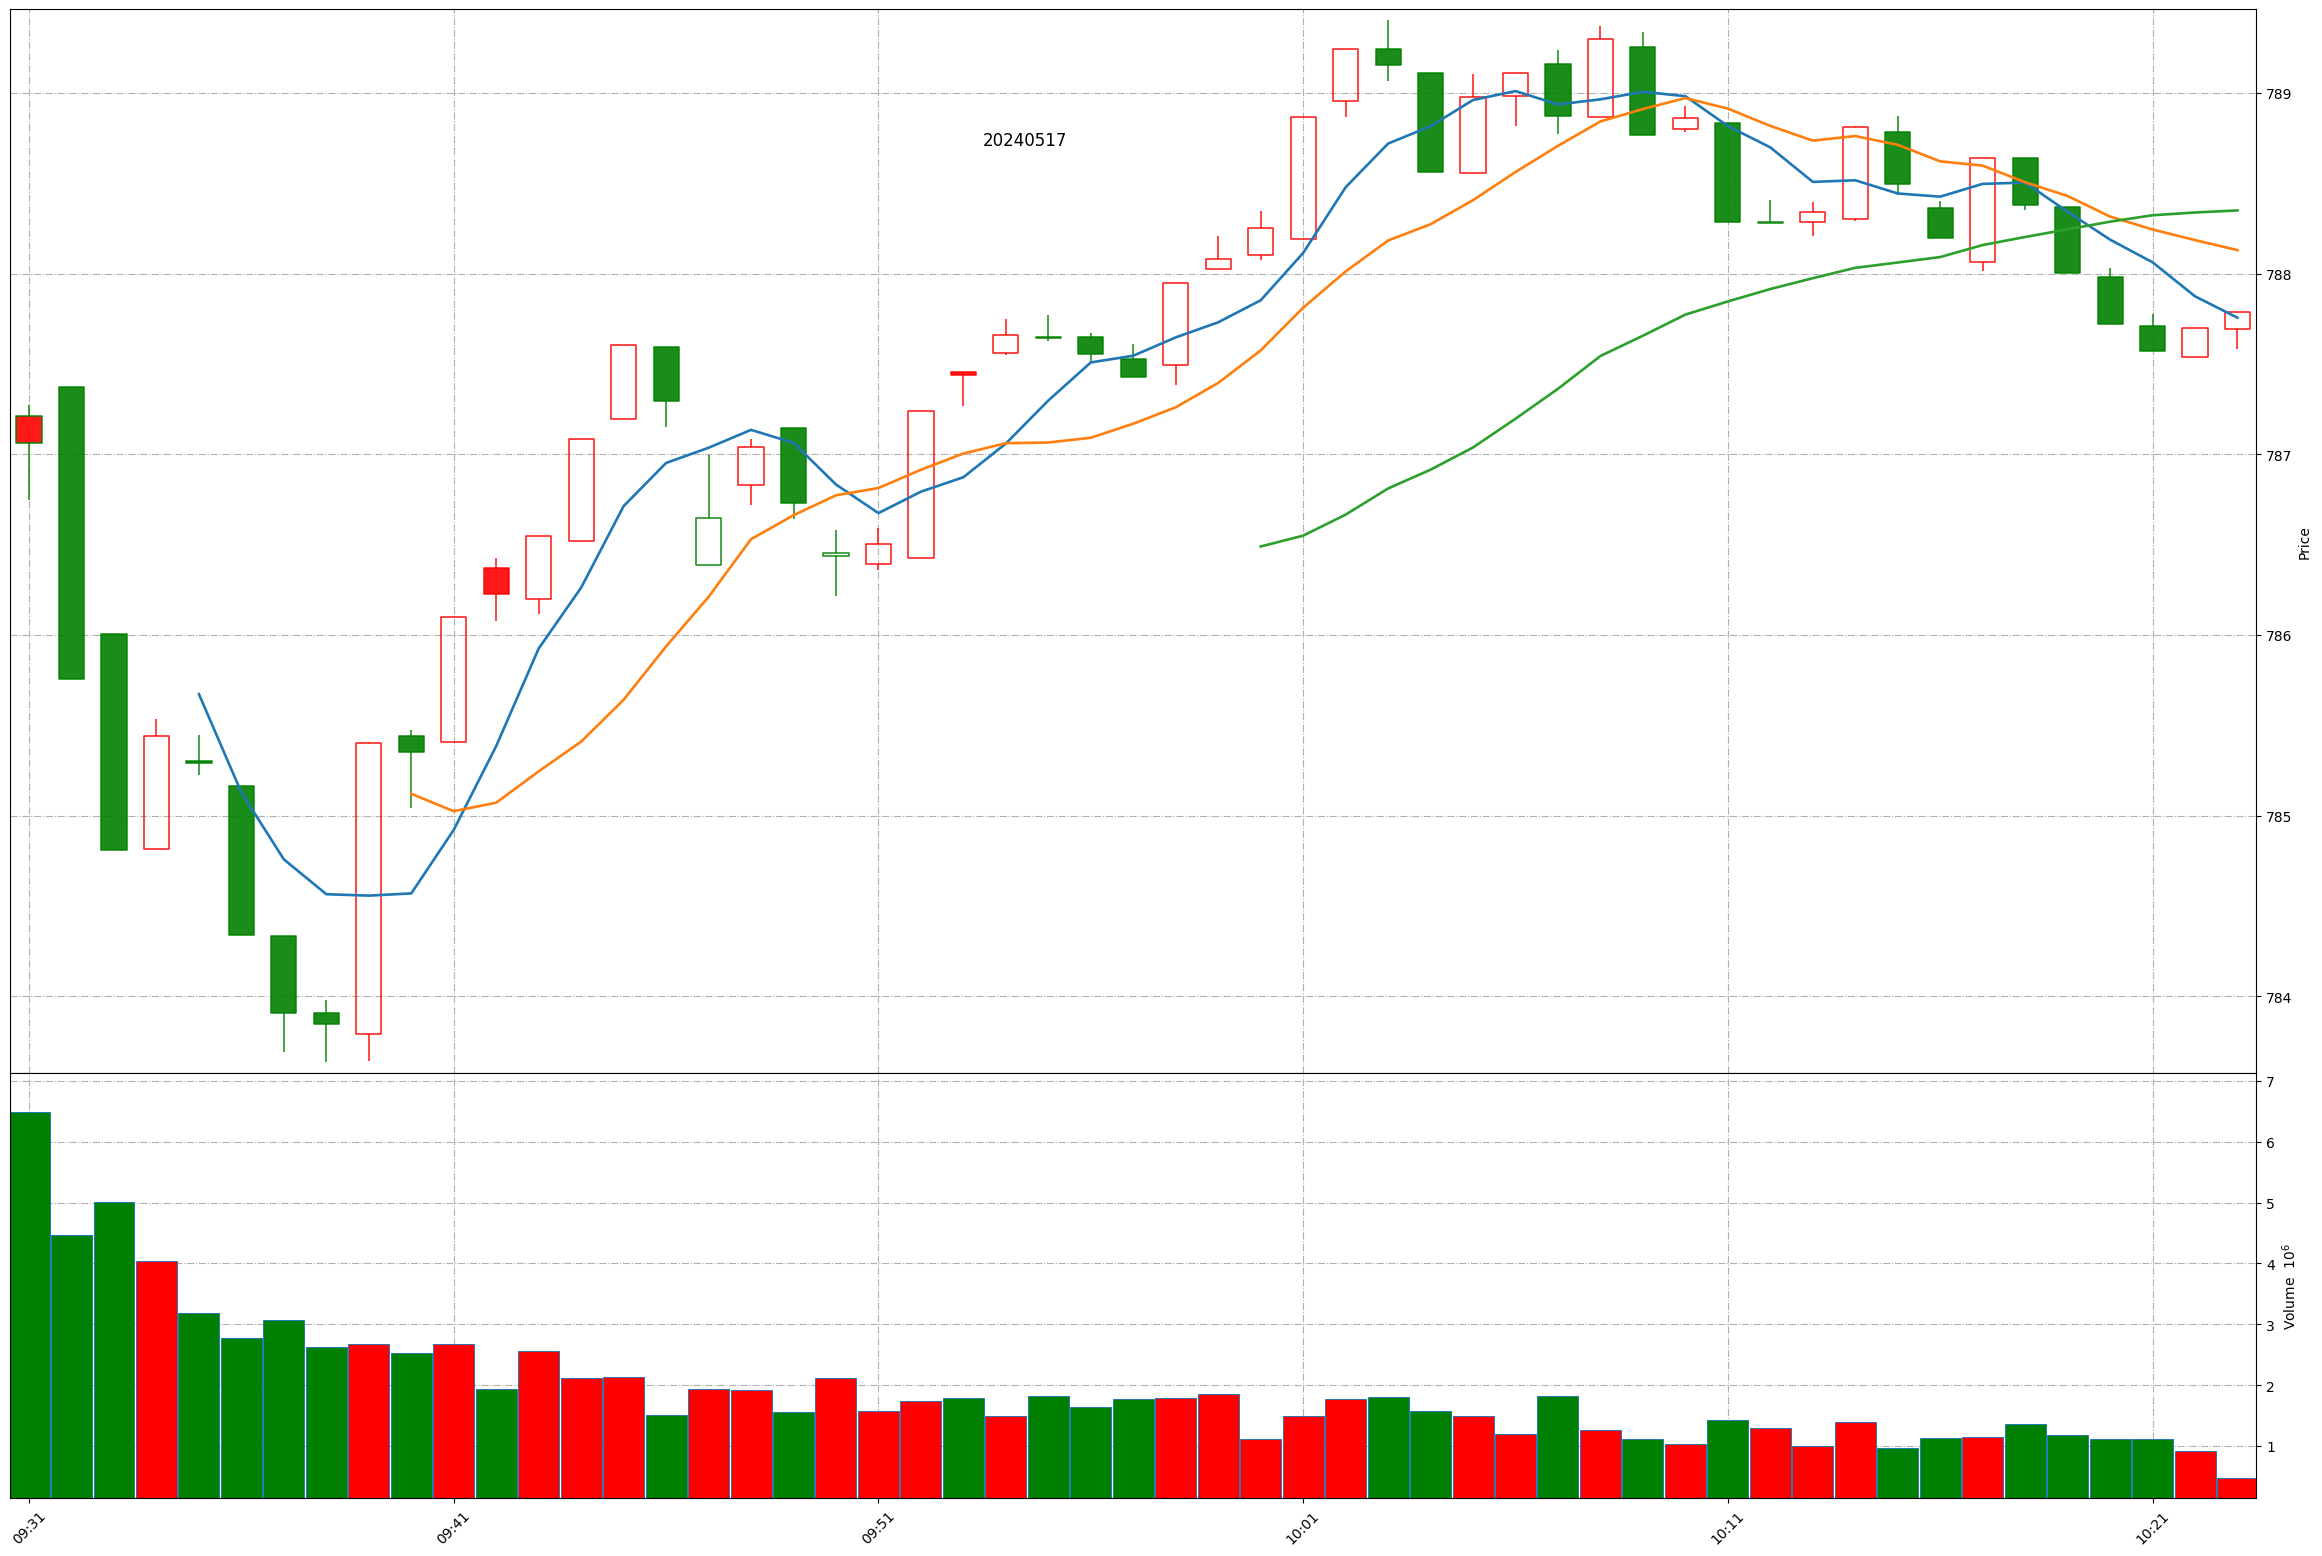
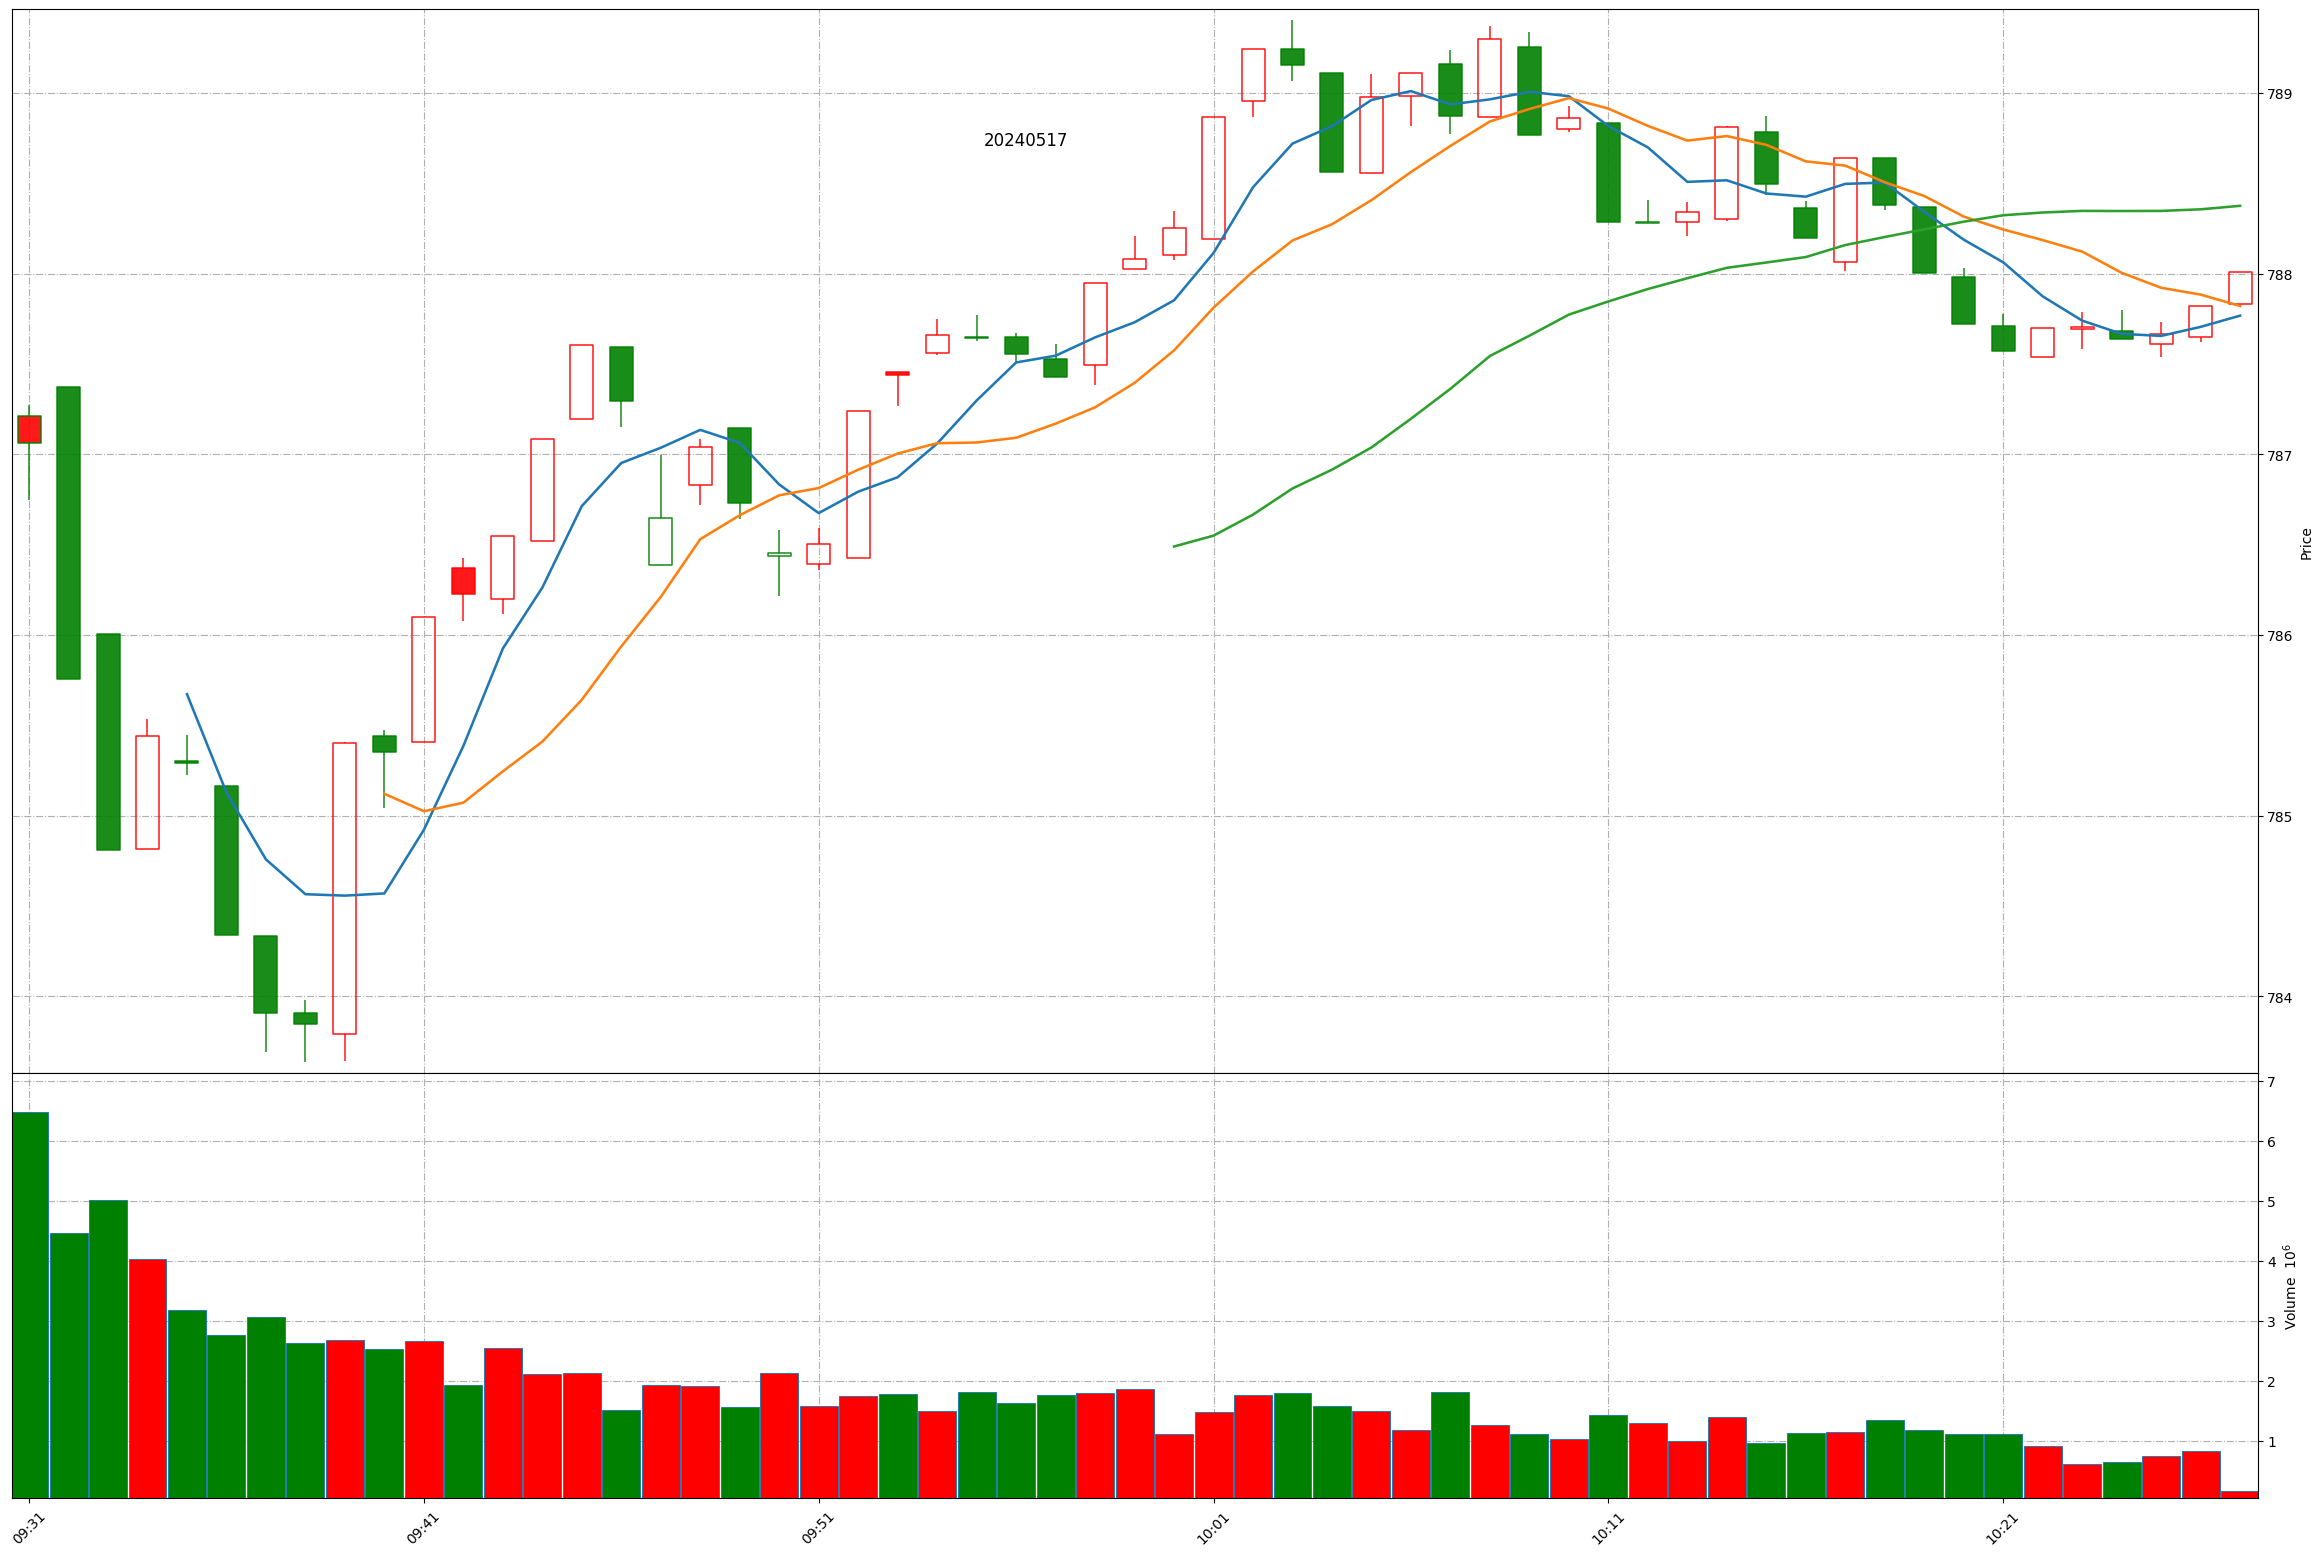
Github action update at 2024-05-17 10:26:26.

diff --git a/README.md b/README.md
@@ -1,11 +1,11 @@
 
 # Daily-A-share-market-quotes 每日 A 股指数（5min 更新）- 20240517
 
-### 上证指数 20240517 10:22
+### 上证指数 20240517 10:26
 ![](./fig/2024/5/20240517-sh000001.png)
 
-### 深证成指 20240517 10:22
+### 深证成指 20240517 10:26
 ![](./fig/2024/5/20240517-sz399001.png)
 
-### 北证50 20240517 10:22
+### 北证50 20240517 10:26
 ![](./fig/2024/5/20240517-bj899050.png)
